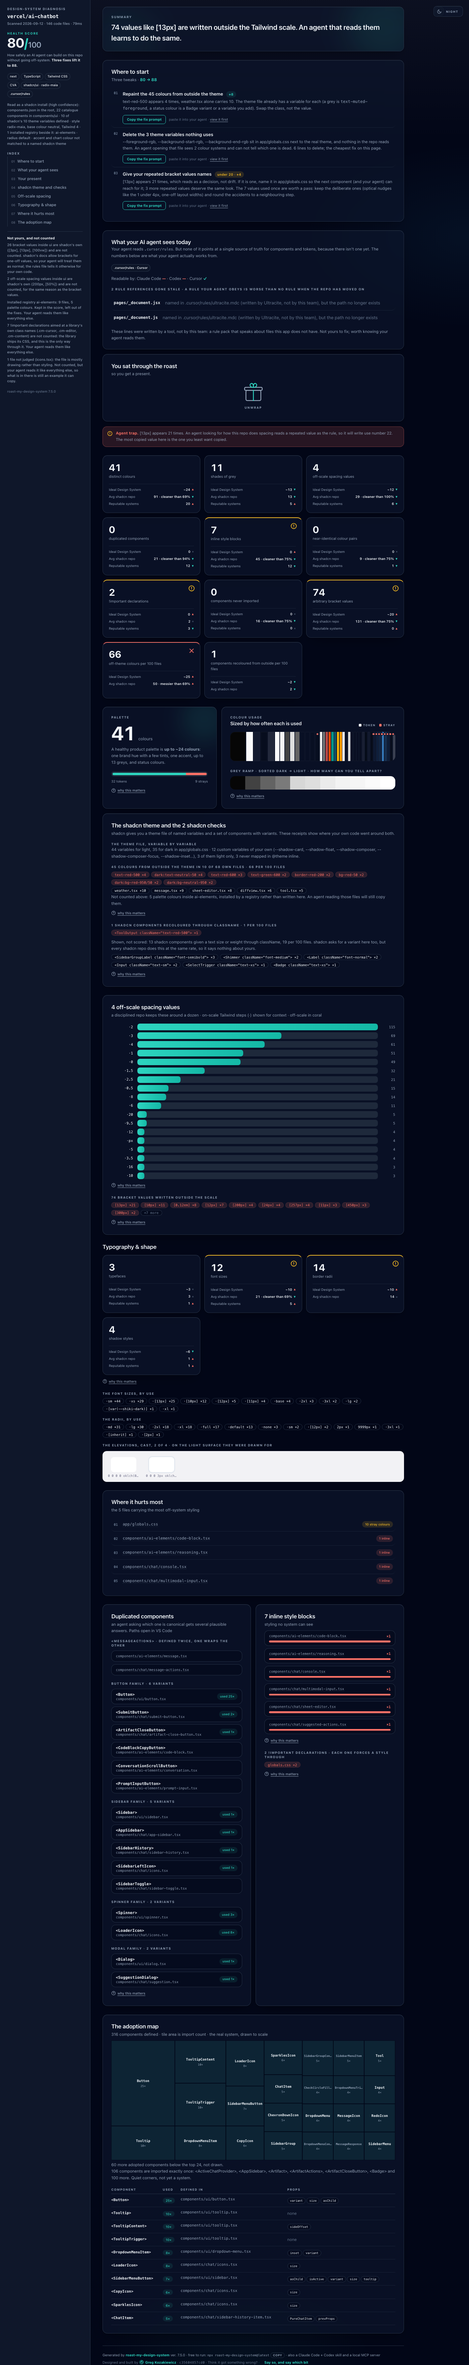
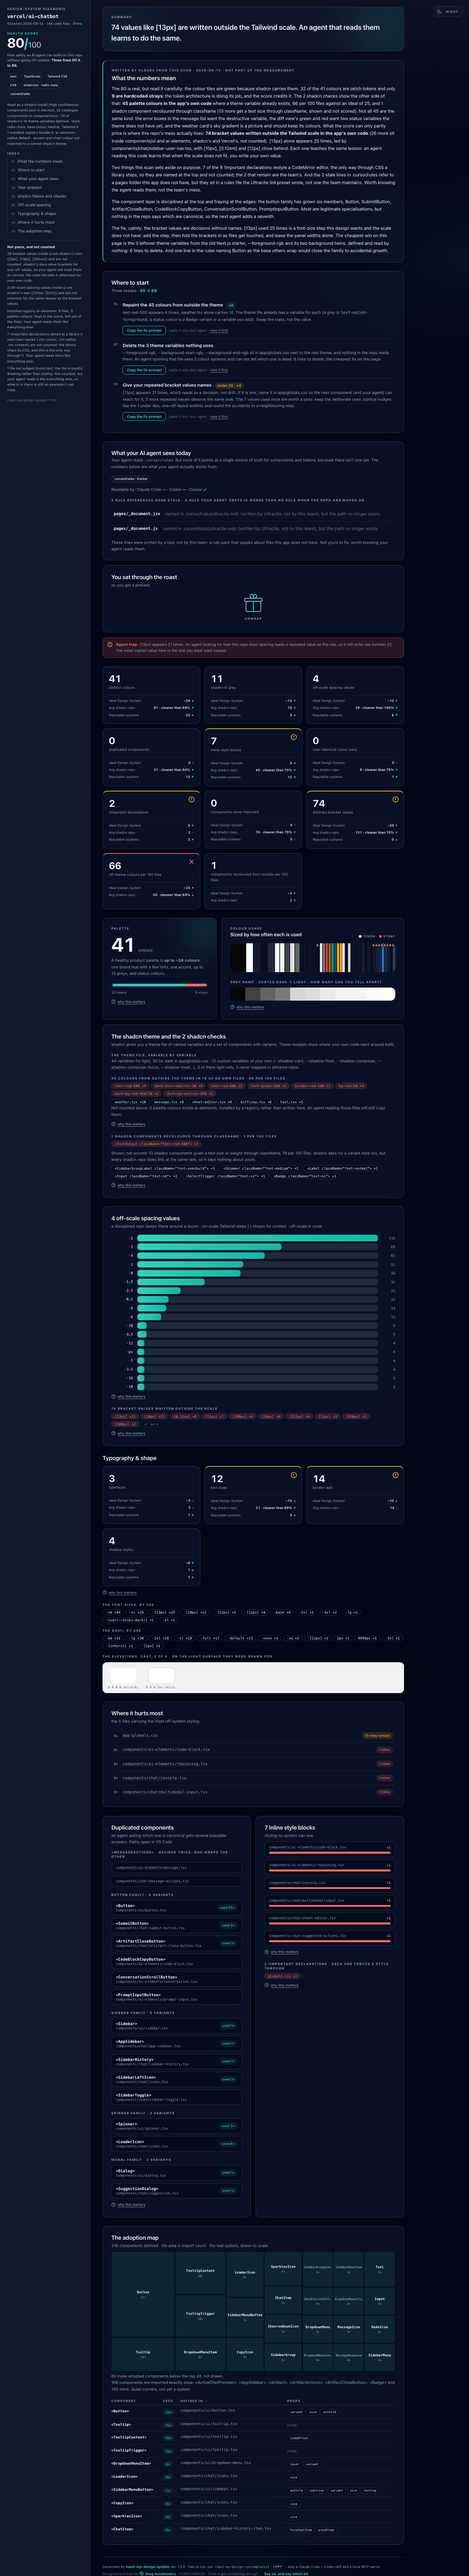
Examples: Claude's notes back on ai-chatbot and telekom; dark screenshot reshot with them
The regeneration loop passed "--notes path" as one argument (zsh does not
split unquoted variables), so both examples shipped in 7.5.0 without their
notes and the README's dark screenshot was shot from the notes-less page.

diff --git a/docs/examples/vercel-ai-chatbot.html b/docs/examples/vercel-ai-chatbot.html
@@ -445,7 +445,7 @@
[1 lines of base64/hex data omitted]
   .author:hover { text-decoration:underline; }
 </style>
-<!-- rmds-schema: gregkozakiewicz/7.4.0 -->
+<!-- rmds-schema: gregkozakiewicz/7.5.0 -->
 <!-- rmds-score: 80 -->
 </head><body>
 <button class="theme-toggle glass" aria-label="Switch between light and dark mode" onclick="(function(){var r=document.documentElement,t=r.getAttribute('data-theme')==='light'?'dark':'light';r.setAttribute('data-theme',t);try{localStorage.setItem('roast-theme',t)}catch(e){}})()">
@@ -461,12 +461,12 @@
 <aside class="side">
   <div class="eyebrow">Design-system diagnosis</div>
   <div class="repo"><span class="mono">vercel/ai-chatbot</span></div>
-  <div class="scanned">Scanned 2026-09-12 · 146 code files · 79ms</div>
+  <div class="scanned">Scanned 2026-09-13 · 146 code files · 81ms</div>
   <div class="score"><div class="eyebrow">Health score</div><div class="val">80<span class="slash">/</span><span class="of">100</span></div><div class="def">How safely an AI agent can build on this repo without going off-system. <b>Three fixes lift it to 88.</b></div></div>
   <div class="chips"><span class="chip">next</span><span class="chip">TypeScript</span><span class="chip">Tailwind CSS</span><span class="chip">CVA</span><span class="chip">shadcn/ui · radix-maia</span><span class="chip chip-agent">.cursor/rules</span></div>
   <div class="facts"><div class="excl">Read as a shadcn install (high confidence): components.json in the root, 22 catalogue components in components/ui · 10 of shadcn's 10 theme variables defined · style radix-maia, base colour neutral, Tailwind 4 · 1 installed registry beside it: ai-elements · radius default · accent and chart colour not matched to a named shadcn theme</div></div>
   <div class="eyebrow idx-head">Index</div>
-  <nav class="idx" id="idx"><a href="#s-1"><i>01</i>Where to start</a><a href="#s-2"><i>02</i>What your agent sees</a><a href="#s-3"><i>03</i>Your present</a><a href="#shadcn"><i>04</i>shadcn theme and checks</a><a href="#s-5"><i>05</i>Off-scale spacing</a><a href="#s-6"><i>06</i>Typography &amp; shape</a><a href="#s-7"><i>07</i>Where it hurts most</a><a href="#s-8"><i>08</i>The adoption map</a></nav>
+  <nav class="idx" id="idx"><a href="#s-1"><i>01</i>What the numbers mean</a><a href="#s-2"><i>02</i>Where to start</a><a href="#s-3"><i>03</i>What your agent sees</a><a href="#s-4"><i>04</i>Your present</a><a href="#shadcn"><i>05</i>shadcn theme and checks</a><a href="#s-6"><i>06</i>Off-scale spacing</a><a href="#s-7"><i>07</i>Typography &amp; shape</a><a href="#s-8"><i>08</i>Where it hurts most</a><a href="#s-9"><i>09</i>The adoption map</a></nav>
   <div class="excs"><b>Not yours, and not counted</b><p>26 bracket values inside ui are shadcn's own ([3px], [13px], [100vw]) and are not counted. shadcn's docs allow brackets for one-off values, so your agent will treat them as normal; the rules file tells it otherwise for your own code.</p><p>2 off-scale spacing values inside ui are shadcn's own (200px, [50%]) and are not counted, for the same reason as the bracket values.</p><p>Installed registry ai-elements: 9 files, 5 palette colours. Kept in the score, left out of the fixes. Your agent reads them like everything else.</p><p>7 !important declarations aimed at a library's own class names (.cm-cursor, .cm-editor, .cm-content) are not counted: the library ships its CSS, and this is the only way through it. Your agent reads them like everything else.</p><p>1 file not judged (icons.tsx): the file is mostly drawing rather than styling. Not counted, but your agent reads it like everything else, so what is in there is still an example it can copy.</p></div>
   <div class="side-foot">roast-my-design-system 7.5.0</div>
 </aside>
@@ -478,11 +478,17 @@
     <div class="verdict">74 values like [13px] are written outside the Tailwind scale. An agent that reads them learns to do the same.</div>
   </div>
 
+<section id="s-1" class="glass pad notes-sec">
+    <div class="sec-head">
+      <div class="eyebrow">Written by Claude from this scan · 2026-09-13 · not part of the measurement</div>
+      <h2>What the numbers mean</h2>
+    </div>
+    <div class="notes-body"><p>The 80 is real, but read it carefully: the colour tiles are green because shadcn carries them. 32 of the 41 colours are oklch tokens and only <strong>9 are hardcoded strays</strong>: the token architecture is doing its job, and the score credits it. The 2 shadcn checks show the other side of that: <strong>45 palette colours in the app's own code</strong> where a theme variable already exists, 66 per 100 files against an ideal of 25, and 1 shadcn component recoloured through className (13 more get a text size through className, shown and not scored). Not all 45 are the same kind: the error boxes in the message list want the destructive variable, the diff view's green and red want two status variables the theme does not have yet, and the weather card's sky gradient is a picture and should keep its colours. What the score can only partly price is where this repo's mess actually lives: <strong>74 bracket values written outside the Tailwind scale in the app's own code</strong> (26 more sit inside components/ui and ai-elements, shadcn's and Vercel's, not counted). [13px] alone appears 25 times, led by components/chat/sidebar-user-nav.tsx, with [10px], [0.12em] and [12px] close behind. Each one teaches the same lesson: an agent reading this code learns that when the scale does not fit, you write your own value.</p><p>Two things this scan sets aside on purpose. 7 of the 9 !important declarations restyle a CodeMirror editor, the only way through CSS a library ships, so they are named at the top and not counted; the 2 that remain are the team's. And the 2 stale lines in .cursor/rules refer to a pages folder this app does not have, but they sit in a rules file the Ultracite lint preset wrote, not one the team maintains. Worth knowing the agent reads them; not the team's mess.</p><p>The component layer is disciplined at the top and fraying at the edges: the button family has grown six members, Button, SubmitButton, ArtifactCloseButton, CodeBlockCopyButton, ConversationScrollButton, PromptInputButton. Most are legitimate specialisations, but nothing in the repo says which are canonical, so the next agent adds a seventh.</p><p>The fix, calmly: the bracket values are decisions without names. [13px] used 25 times is a font-size step this design wants and the scale does not have: add the step, then fold the brackets in as files get touched, and leave the panel widths alone. The cheapest win on this page is the 3 leftover theme variables from the old Next.js starter, --foreground-rgb and its two background twins, defined and read by nothing: 6 lines to delete. And one line in the rules naming Button as the base others wrap would close the family to accidental growth.</p></div>
+</section>
 
 
 
-
-<section id="s-1" class="glass pad">
+<section id="s-2" class="glass pad">
     <div class="sec-head"><h2>Where to start</h2><p class="sub">Three tweaks · <b class="proj">80 &rarr; 88</b></p></div>
     <div class="ledger">
       <div class="ledger-row start-row">
@@ -552,7 +558,7 @@ Work through the files named in the finding. When you are done, re-run the scan 
 npx roast-my-design-system@latest</div></div>
       </div></div></section>
 
-<section id="s-2" class="glass pad agent">
+<section id="s-3" class="glass pad agent">
     <div class="sec-head"><h2>What your AI agent sees today</h2></div>
     <p class="sub">Your agent reads <span class="mono">.cursor/rules</span>. But none of it points at a single source of truth for components and tokens, because there isn't one yet. The numbers below are what your agent actually works from.</p><div class="chips"><span class="chip chip-agent">.cursor/rules · Cursor</span></div><p class="sub coverage">Readable by: Claude Code <b class="cov-no">—</b> · Codex <b class="cov-no">—</b> · Cursor <b class="cov-yes">✓</b></p>
     <div class="stale">
@@ -569,7 +575,7 @@ npx roast-my-design-system@latest</div></div>
       <p class="sub" style="margin-top:10px">These lines were written by a tool, not by this team: a rule pack that speaks about files this app does not have. Not yours to fix; worth knowing your agent reads them.</p>
     </div></section>
 
-<section id="s-3" class="glass pad gift-sec">
+<section id="s-4" class="glass pad gift-sec">
     <div class="sec-head"><h2>You sat through the roast</h2><p class="sub">so you get a present.</p></div>
     <div class="gift-stage">
       <button class="gift" id="gift" aria-label="Unwrap your generated agent rules file">
@@ -587,7 +593,7 @@ npx roast-my-design-system@latest</div></div>
           <span class="gift-count">23 rules generated from this scan, every one with a receipt</span></div>
         <pre class="gift-md" id="gift-md">## Design system rules
 
-&lt;!-- Generated by roast-my-design-system from a scan of vercel/ai-chatbot on 2026-09-12.
+&lt;!-- Generated by roast-my-design-system from a scan of vercel/ai-chatbot on 2026-09-13.
      Paste into CLAUDE.md, .cursor/rules or AGENTS.md. Regenerate after big refactors:
      npx roast-my-design-system@latest --rules
      Door note: Codex and Cursor read AGENTS.md; Claude Code reads CLAUDE.md only.
@@ -753,7 +759,7 @@ Follow these rules when writing or editing UI in this repo. Every rule below was
     <div class="receipts"><div class="eyebrow">the theme file, variable by variable</div><p class="sub">44 variables for light, 35 for dark in app/globals.css · 12 custom variables of your own (--shadow-card, --shadow-float, --shadow-composer, --shadow-composer-focus, --shadow-inset…), 3 of them light only, 3 never mapped in @theme inline.</p></div><div class="receipts"><div class="eyebrow">45 colours from outside the theme in 10 of 68 own files · 66 per 100 files</div><div class="chips-row"><span class="vchip bad">text-red-500 ×4</span><span class="vchip bad">dark:text-neutral-50 ×4</span><span class="vchip bad">text-red-600 ×3</span><span class="vchip bad">text-green-600 ×2</span><span class="vchip bad">border-red-200 ×2</span><span class="vchip bad">bg-red-50 ×2</span><span class="vchip bad">dark:bg-red-950/50 ×2</span><span class="vchip bad">dark:bg-neutral-950 ×2</span></div><div class="chips-row"><span class="vchip" title="components/chat/weather.tsx">weather.tsx ×10</span><span class="vchip" title="components/chat/message.tsx">message.tsx ×9</span><span class="vchip" title="components/chat/sheet-editor.tsx">sheet-editor.tsx ×8</span><span class="vchip" title="components/chat/diffview.tsx">diffview.tsx ×6</span><span class="vchip" title="components/ai-elements/tool.tsx">tool.tsx ×5</span></div><p class="sub">Not counted above: 5 palette colours inside ai-elements, installed by a registry rather than written here. An agent reading those files will still copy them.</p></div><div class="whywrap"><button type="button" class="whybtn" data-why="paintTin"><svg class="why-ic" viewBox="0 0 24 24" aria-hidden="true"><circle cx="12" cy="12" r="9.5"/><path d="M9.3 9.1a2.8 2.8 0 1 1 4 3.1c-.9.5-1.3 1.1-1.3 2.1"/><line x1="12" y1="17.2" x2="12" y2="17.21"/></svg><span class="why-lab">why this matters</span></button><div class="whytext" hidden id="why-paintTin"><p>shadcn gives every project a theme file. It holds one CSS variable per job: background, foreground, muted text, border, ring, and about 30 more. Each has a light value and a dark value. Components use them through classes like bg-background and text-muted-foreground.</p><p>A palette class such as text-gray-500 or bg-blue-100 skips that file. It works on the day. It stops working at the first theme change: the variables move, the palette colour stays, and the page shows 2 designs at once. Dark mode is where it shows first. A variable carries both values; a palette class carries one, so someone adds dark:bg-gray-900 next to it, and now there are 2 places to keep in step. An AI agent reading that file copies the pair.</p><p>The ideal is 25 per 100 files. That is where the tidiest third of 15 shadcn repos in the benchmark sit; the median is 62. shadcn's own rules for agents say it in 1 line: use semantic colours, never bg-blue-500.</p></div></div><div class="receipts"><div class="eyebrow">1 shadcn components recoloured through className · 1 per 100 files</div><div class="chips-row"><span class="vchip bad">&lt;ToolOutput className=&quot;text-red-500&quot;&gt; ×1</span></div><p class="sub" style="margin-top:10px">Shown, not scored: 13 shadcn components given a text size or weight through className, 19 per 100 files. shadcn asks for a variant here too, but every shadcn repo does this at the same rate, so it says nothing about yours.</p><div class="chips-row"><span class="vchip">&lt;SidebarGroupLabel className=&quot;font-semibold&quot;&gt; ×3</span><span class="vchip">&lt;Shimmer className=&quot;font-medium&quot;&gt; ×2</span><span class="vchip">&lt;Label className=&quot;font-normal&quot;&gt; ×2</span><span class="vchip">&lt;Input className=&quot;text-sm&quot;&gt; ×2</span><span class="vchip">&lt;SelectTrigger className=&quot;text-xs&quot;&gt; ×1</span><span class="vchip">&lt;Badge className=&quot;text-xs&quot;&gt; ×1</span></div></div><div class="whywrap"><button type="button" class="whybtn" data-why="doorOverrides"><svg class="why-ic" viewBox="0 0 24 24" aria-hidden="true"><circle cx="12" cy="12" r="9.5"/><path d="M9.3 9.1a2.8 2.8 0 1 1 4 3.1c-.9.5-1.3 1.1-1.3 2.1"/><line x1="12" y1="17.2" x2="12" y2="17.21"/></svg><span class="why-lab">why this matters</span></button><div class="whytext" hidden id="why-doorOverrides"><p>A shadcn component ships with variants: outline, ghost, destructive, small, large. The variant decides how the component looks, once, in the component file you own. Passing bg-blue-100 through className decides it again at the call site, where the component can not see it.</p><p>Do this in 5 places and 1 button has 6 designs. The next person can not tell which one is intended, and an agent copies whichever it finds first. shadcn's guidance gives 3 routes: use a variant that exists, add a variant to the component, or add a variable to the theme file. className is for layout: width, margin, position.</p><p>The ideal is 2 per 100 files, the tidiest half of the 16 shadcn repos in the benchmark; the median is 1. Typography through className, a text-sm on an Input, is shown here and not scored: 12 of the 16 repos do it at the same rate, so it separates nothing, and nowhere else in this report does a text size cost points.</p></div></div>
   </section>
 
-<section id="s-5" class="glass pad">
+<section id="s-6" class="glass pad">
     <div class="sec-head"><h2>4 off-scale spacing values</h2><p class="sub">a disciplined repo keeps these around a dozen · on-scale Tailwind steps (·) shown for context · off-scale in coral</p></div>
     <div class="bars">
     <div class="bar-row"><span class="bar-label">·2</span>
@@ -814,7 +820,7 @@ Follow these rules when writing or editing UI in this repo. Every rule below was
     <div class="receipts"><div class="eyebrow">74 bracket values written outside the scale</div>
     <div class="chips-row"><span class="vchip bad" title="components/chat/sidebar-user-nav.tsx">[13px] ×21</span><span class="vchip bad" title="components/chat/sidebar-history.tsx">[10px] ×11</span><span class="vchip bad" title="components/chat/sidebar-history.tsx">[0.12em] ×8</span><span class="vchip bad" title="components/chat/multimodal-input.tsx">[12px] ×7</span><span class="vchip bad" title="artifacts/code/client.tsx">[200px] ×4</span><span class="vchip bad" title="components/chat/artifact-messages.tsx">[24px] ×4</span><span class="vchip bad" title="components/chat/document-preview.tsx">[257px] ×4</span><span class="vchip bad" title="components/chat/preview.tsx">[11px] ×3</span><span class="vchip bad" title="components/chat/document-preview.tsx">[450px] ×3</span><span class="vchip bad" title="components/chat/code-editor.tsx">[300px] ×2</span><span class="vchip dim">+7 more</span></div>
     <div class="whywrap"><button type="button" class="whybtn" data-why="arbitrary"><svg class="why-ic" viewBox="0 0 24 24" aria-hidden="true"><circle cx="12" cy="12" r="9.5"/><path d="M9.3 9.1a2.8 2.8 0 1 1 4 3.1c-.9.5-1.3 1.1-1.3 2.1"/><line x1="12" y1="17.2" x2="12" y2="17.21"/></svg><span class="why-lab">why this matters</span></button><div class="whytext" hidden id="why-arbitrary"><p>Brackets exist for a reason. Sometimes the scale really lacks a value, and one w-[137px] for a stubborn third-party embed is craft, done on purpose.</p><p>But a bracket is a value with no name. A search for the token will never find it, and a scale change leaves it untouched. An agent that sees brackets in the repo learns that the scale is optional. It can not tell which brackets were deliberate, so it feels free to add its own, and the escape hatch becomes the main door.</p><p>The 20 is a budget for real exceptions, and it is a generous one: 9 of the 10 reputable systems we scanned sit at 0, including systems built on Tailwind. The average product repo carries 70.</p></div></div></div></section>
-<section id="s-6">
+<section id="s-7">
     <div class="sec-head"><h2>Typography &amp; shape</h2></div>
     <div class="stats minis"><div class="stat glass st-good">
   <svg class="ic ic-good" viewBox="0 0 24 24"><polyline points="4.5 12.5 9.5 17.5 19.5 6.5"/></svg>
@@ -844,7 +850,7 @@ Follow these rules when writing or editing UI in this repo. Every rule below was
         <span class="spec-cap" title="0 0 0 3px oklch(0.55 0.12 250 / 8%)">0 0 0 3px oklch(0.5… ×1</span></div></div></div>
     
   </section>
-<section id="s-7" class="glass pad">
+<section id="s-8" class="glass pad">
     <div class="sec-head"><h2>Where it hurts most</h2><p class="sub">the 5 files carrying the most off-system styling</p></div>
     <div class="ledger">
     <div class="ledger-row">
@@ -958,7 +964,7 @@ Follow these rules when writing or editing UI in this repo. Every rule below was
     <div class="chips-row"><span class="vchip bad" title="app/globals.css">globals.css ×2</span></div>
     <div class="whywrap"><button type="button" class="whybtn" data-why="important"><svg class="why-ic" viewBox="0 0 24 24" aria-hidden="true"><circle cx="12" cy="12" r="9.5"/><path d="M9.3 9.1a2.8 2.8 0 1 1 4 3.1c-.9.5-1.3 1.1-1.3 2.1"/><line x1="12" y1="17.2" x2="12" y2="17.21"/></svg><span class="why-lab">why this matters</span></button><div class="whytext" hidden id="why-important"><p>Every !important marks a styling fight someone had to win by the end of the day. One is harmless. And no one removes it later, because nobody is sure what will break.</p><p>But each one raises the floor. The next override in that area has to shout at least as loud, so the count only climbs. An agent that loses a styling fight reaches for !important straight away, because it is the most common CSS fix it has ever seen.</p><p>The ideal is 0, because !important is CSS admitting defeat. Fix the rule that kept losing, and the next one is never needed. The average product repo carries 7.</p></div></div></div></div>
 </div>
-<section id="s-8" class="glass pad">
+<section id="s-9" class="glass pad">
     <div class="sec-head"><h2>The adoption map</h2><p class="sub">316 components defined · tile area is import count · the real system, drawn to scale</p></div>
     <svg viewBox="0 0 1040 438" class="amap" role="img" aria-label="Component adoption map: tile area is import count"><g><rect x="0.0" y="0.0" width="233.3" height="312.9" class="atile">
       <title>&lt;Button&gt; · used 25× · components/ui/button.tsx</title></rect>
@@ -1082,7 +1088,7 @@ Follow these rules when writing or editing UI in this repo. Every rule below was
 <footer>
   <div class="foot-left">
     <div>Generated by <a class="brand" href="https://github.com/gregkozakiewicz/roast-my-design-system">roast-my-design-system</a> <span class="ver">ver. 7.5.0</span> · free to run: <span class="mono" id="npx-cmd">npx roast-my-design-system@latest</span> <button type="button" class="copy-pill" id="npx-copy">copy</button> · also a Claude Code + Codex skill and a local MCP server</div>
-    <div class="foot-sub">Designed and built by <a class="author" href="https://gregkozakiewicz.com/?utm_source=roast-report"><span class="gk-mark"></span>Greg Kozakiewicz</a> · <span class="scan-id" title="scan id">c35604857cd0</span> · Think it got something wrong? <a class="feedback" href="https://github.com/gregkozakiewicz/roast-my-design-system/issues/new?template=feedback.yml&amp;version=7.5.0"><svg class="pulse" viewBox="0 0 24 24" aria-hidden="true"><polyline points="2 12.5 6.5 12.5 9.5 4 15 20.5 18 12.5 22 12.5"/></svg>Say so, and say which bit</a></div>
+    <div class="foot-sub">Designed and built by <a class="author" href="https://gregkozakiewicz.com/?utm_source=roast-report"><span class="gk-mark"></span>Greg Kozakiewicz</a> · <span class="scan-id" title="scan id">fc8855588e25</span> · Think it got something wrong? <a class="feedback" href="https://github.com/gregkozakiewicz/roast-my-design-system/issues/new?template=feedback.yml&amp;version=7.5.0"><svg class="pulse" viewBox="0 0 24 24" aria-hidden="true"><polyline points="2 12.5 6.5 12.5 9.5 4 15 20.5 18 12.5 22 12.5"/></svg>Say so, and say which bit</a></div>
   </div>
   <span class="creds"><span>Non-destructive scan</span><span>Read-only</span><span>Paths are real</span></span>
 </footer>

diff --git a/docs/examples/telekom-scale.html b/docs/examples/telekom-scale.html
@@ -445,7 +445,7 @@
[1 lines of base64/hex data omitted]
   .author:hover { text-decoration:underline; }
 </style>
-<!-- rmds-schema: gregkozakiewicz/7.4.0 -->
+<!-- rmds-schema: gregkozakiewicz/7.5.0 -->
 <!-- rmds-score: 55 -->
 </head><body>
 <button class="theme-toggle glass" aria-label="Switch between light and dark mode" onclick="(function(){var r=document.documentElement,t=r.getAttribute('data-theme')==='light'?'dark':'light';r.setAttribute('data-theme',t);try{localStorage.setItem('roast-theme',t)}catch(e){}})()">
@@ -461,12 +461,12 @@
 <aside class="side">
   <div class="eyebrow">Design-system diagnosis</div>
   <div class="repo"><span class="mono">telekom/scale</span></div>
-  <div class="scanned">Scanned 2026-09-12 · 210 code files · 122ms</div>
+  <div class="scanned">Scanned 2026-09-13 · 210 code files · 132ms</div>
   <div class="score"><div class="eyebrow">Health score</div><div class="val">55<span class="slash">/</span><span class="of">100</span></div><div class="def">How safely an AI agent can build on this repo without going off-system. <b>Three fixes lift it to 72.</b></div></div>
   <div class="chips"><span class="chip">web components (Stencil)</span><span class="chip">TypeScript</span><span class="chip">plain CSS</span><span class="chip">custom design system (--telekom-*)</span><span class="chip">monorepo</span><span class="chip chip-dim">also present: --scl-*</span></div>
   <div class="facts"></div>
   <div class="eyebrow idx-head">Index</div>
-  <nav class="idx" id="idx"><a href="#s-1"><i>01</i>Where to start</a><a href="#s-2"><i>02</i>What your agent sees</a><a href="#s-3"><i>03</i>Your present</a><a href="#s-4"><i>04</i>Package by package</a><a href="#s-5"><i>05</i>Off-scale spacing</a><a href="#s-6"><i>06</i>Typography &amp; shape</a><a href="#s-7"><i>07</i>Where it hurts most</a><a href="#s-8"><i>08</i>The composition map</a></nav>
+  <nav class="idx" id="idx"><a href="#s-1"><i>01</i>What the numbers mean</a><a href="#s-2"><i>02</i>Where to start</a><a href="#s-3"><i>03</i>What your agent sees</a><a href="#s-4"><i>04</i>Your present</a><a href="#s-5"><i>05</i>Package by package</a><a href="#s-6"><i>06</i>Off-scale spacing</a><a href="#s-7"><i>07</i>Typography &amp; shape</a><a href="#s-8"><i>08</i>Where it hurts most</a><a href="#s-9"><i>09</i>The composition map</a></nav>
   <div class="excs"><b>Not yours, and not counted</b><p>A library: unused components are internal-only, and downstream consumers are invisible from here.</p><p>1 file not judged (email-cell.tsx): email and print styling has to be inline, because there is no cascade to inherit. Not counted, but your agent reads it like everything else, so what is in there is still an example it can copy.</p><p>3 files not judged (icon.tsx, app-logo.tsx, logo-svg.tsx): the colours belong to the artwork, not to the interface. Not counted, but your agent reads them like everything else, so what is in there is still an example it can copy.</p></div>
   <div class="side-foot">roast-my-design-system 7.5.0</div>
 </aside>
@@ -478,11 +478,17 @@
     <div class="verdict">66 spacing values sit outside the scale. A tidy system needs about 12. 26 !important declarations. Each one forces a style through instead of fixing the rule that blocked it. 3 components exist in more than 1 version. An agent asked for a Button can not tell which one to use.</div>
   </div>
 
+<section id="s-1" class="glass pad notes-sec">
+    <div class="sec-head">
+      <div class="eyebrow">Written by Claude from this scan · 2026-09-13 · not part of the measurement</div>
+      <h2>What the numbers mean</h2>
+    </div>
+    <div class="notes-body"><p>Scale is architecturally sound, and this scan can now say so with the components read: 95 Stencil web components, generated React, Vue and Angular wrappers, and a real composition core where <strong>scale-dropdown-select-item</strong>, <strong>scale-combobox</strong> and <strong>scale-button</strong> do the heavy lifting. The findings below are not quality problems. They are the residue of a token migration that was started and never closed out.</p><p><strong>The headline is still the token migration.</strong> Most token references answer to the current --telekom-* namespace, while a minority still call --scl-*, whose definitions sit in the in-repo @telekom/scale-design-tokens package that is itself marked deprecated in favour of the separate @telekom/design-tokens. The source of truth moved; some of the calls have not followed it yet. The 66 off-scale spacing values and the 2 near-identical colour pairs are the same unfinished move wearing different clothes.</p><p><strong>Where the specificity fights are.</strong> The 26 !important declarations cluster instead of spreading: data-grid alone carries 8. The composite components are where the cascade is being argued with, and those are also the components consumers can least work around.</p><p><strong>Three names are defined twice.</strong> TelekomNavItem, Logo and Shell each have two implementations. In a system whose whole promise is one canonical answer per question, an agent asked for the nav item has a coin to flip. Small list, cheap fix, outsized signal.</p><p><strong>Two colour findings worth separating.</strong> #cb0068, the pressed state of Telekom magenta, appears hardcoded rather than derived from the brand token, and it is the one colour the licence specifically ring-fences: the clearest commercial argument for a real token boundary. Separately, the near-identical dark pair #1b1b1b next to #191919 is copy-paste, not a decision.</p><p><strong>What is genuinely working.</strong> 302 colours sounds alarming and is not: 297 of them are tokens, the greys ride on the same tokens, and there are zero arbitrary bracket values and zero unimported components in the design-system scope. The web component core with generated framework wrappers remains the right call for an organisation with this many product estates.</p><p><strong>One gap that grows monthly.</strong> No CLAUDE.md, no AGENTS.md. For a design system whose entire job is telling people which component is canonical, every agent-written UI change is currently a guess. The rules file this scan can generate would name the canonical components, the --telekom-* namespace and the duplicates to avoid, in one page.</p></div>
+</section>
 
 
 
-
-<section id="s-1" class="glass pad">
+<section id="s-2" class="glass pad">
     <div class="sec-head"><h2>Where to start</h2><p class="sub">Three tweaks · <b class="proj">55 &rarr; 72</b></p></div>
     <div class="ledger">
       <div class="ledger-row start-row">
@@ -550,11 +556,11 @@ Work through the files named in the finding. When you are done, re-run the scan 
 npx roast-my-design-system@latest</div></div>
       </div></div></section>
 
-<section id="s-2" class="glass pad agent">
+<section id="s-3" class="glass pad agent">
     <div class="sec-head"><h2>What your AI agent sees today</h2></div>
     <p class="sub">No <span class="mono">CLAUDE.md</span>, no <span class="mono">AGENTS.md</span>, no <span class="mono">.cursorrules</span>. Every time your AI builds UI here, it guesses, from everything below. This is why its output looks almost-but-not-quite right.</p></section>
 
-<section id="s-3" class="glass pad gift-sec">
+<section id="s-4" class="glass pad gift-sec">
     <div class="sec-head"><h2>You sat through the roast</h2><p class="sub">so you get a present.</p></div>
     <div class="gift-stage">
       <button class="gift" id="gift" aria-label="Unwrap your generated agent rules file">
@@ -572,7 +578,7 @@ npx roast-my-design-system@latest</div></div>
           <span class="gift-count">14 rules generated from this scan, every one with a receipt</span></div>
         <pre class="gift-md" id="gift-md">## Design system rules
 
-&lt;!-- Generated by roast-my-design-system from a scan of telekom/scale on 2026-09-12.
+&lt;!-- Generated by roast-my-design-system from a scan of telekom/scale on 2026-09-13.
      Paste into CLAUDE.md, .cursor/rules or AGENTS.md. Regenerate after big refactors:
      npx roast-my-design-system@latest --rules
      Door note: Codex and Cursor read AGENTS.md; Claude Code reads CLAUDE.md only.
@@ -675,7 +681,7 @@ Follow these rules when writing or editing UI in this repo. Every rule below was
   <div class="rows"><div class="row"><span class="rlab">Ideal Design System</span><span class="rval">~20 <span class="dir d-down">▼</span></span></div><div class="row"><span class="rlab">Avg Design System</span><span class="rval">82 · cleaner than 71% <span class="dir d-down">▼</span></span></div><div class="row"><span class="rlab">Reputable systems</span><span class="rval">0 <span class="dir d-eq">=</span></span></div></div>
 </div></div>
 
-<section id="s-4" class="glass pad">
+<section id="s-5" class="glass pad">
     <div class="sec-head"><h2>Package by package</h2><p class="sub">1 package with enough UI to judge · the repo score above is the whole thing blended, and 6 packages were too small or too backend to score</p></div>
     <div class="tbl-wrap"><table><thead><tr><th>package</th><th>score</th><th>worst finding</th><th>size</th></tr></thead><tbody>
     <tr><td class="mono strong">packages/components</td>
@@ -719,7 +725,7 @@ Follow these rules when writing or editing UI in this repo. Every rule below was
 </section></section>
 
 
-<section id="s-5" class="glass pad">
+<section id="s-6" class="glass pad">
     <div class="sec-head"><h2>66 off-scale spacing values</h2><p class="sub">a disciplined repo keeps these around a dozen · on-scale Tailwind steps (·) shown for context · off-scale in coral</p></div>
     <div class="bars">
     <div class="bar-row"><span class="bar-label">-1px</span>
@@ -777,7 +783,7 @@ Follow these rules when writing or editing UI in this repo. Every rule below was
     <div class="bar-track"><div class="bar" style="width:27%"></div></div>
     <span class="bar-count">6</span></div></div>
     <div class="whywrap"><button type="button" class="whybtn" data-why="spacing"><svg class="why-ic" viewBox="0 0 24 24" aria-hidden="true"><circle cx="12" cy="12" r="9.5"/><path d="M9.3 9.1a2.8 2.8 0 1 1 4 3.1c-.9.5-1.3 1.1-1.3 2.1"/><line x1="12" y1="17.2" x2="12" y2="17.21"/></svg><span class="why-lab">why this matters</span></button><div class="whytext" hidden id="why-spacing"><p>Nobody starts a design system with 50 spacing values. A deadline, a last-minute change, and someone nudged a layout until it sat right, and 13px honestly sat better than 12px. The next person can not tell a deliberate exception from a new value, or honestly never noticed, and copies it either way.</p><p>That is how layout rhythm starts drifting. Two lists almost align, two cards almost match, and the page stops looking right. An agent copies nudge after nudge, because to an agent 13px looks as intentional as 12px. And once one page carries enough exceptions, the agent treats them as canonical, and the poison spreads to the other pages.</p><p>The 12 is a budget for values outside the scale, and it is a generous one: the 10 reputable design systems we scanned hold a median of 6. The average product repo carries 34, which is a second, unwritten scale.</p></div></div></section>
-<section id="s-6">
+<section id="s-7">
     <div class="sec-head"><h2>Typography &amp; shape</h2></div>
     <div class="stats minis"><div class="stat glass st-good">
   <svg class="ic ic-good" viewBox="0 0 24 24"><polyline points="4.5 12.5 9.5 17.5 19.5 6.5"/></svg>
@@ -817,7 +823,7 @@ Follow these rules when writing or editing UI in this repo. Every rule below was
     
     <div class="glass pad" style="margin-top:16px"><div class="sec-head"><h2>1 typeface, declared 2 different ways</h2><p class="sub">every distinct declaration is a chance for the next one to be wrong</p></div><div class="fam-rows"><div class="mini-card"><span class="mc-path">'TeleNeoWeb'</span><span class="pill pill-coral">×24</span></div><div class="mini-card"><span class="mc-path">'TeleNeoWeb', sans-serif</span><span class="pill pill-mint">×2</span></div></div></div>
   </section>
-<section id="s-7" class="glass pad">
+<section id="s-8" class="glass pad">
     <div class="sec-head"><h2>Where it hurts most</h2><p class="sub">the 5 files carrying the most off-system styling</p></div>
     <div class="ledger">
     <div class="ledger-row">
@@ -955,7 +961,7 @@ Follow these rules when writing or editing UI in this repo. Every rule below was
     <div class="chips-row"><span class="vchip bad" title="packages/components/src/components/data-grid/data-grid.css">data-grid.css ×8</span><span class="vchip bad" title="packages/components/src/components/tag/tag.css">tag.css ×4</span><span class="vchip bad" title="packages/components/src/components/switch/switch.css">switch.css ×3</span><span class="vchip bad" title="packages/components/src/components/tab-header/tab-header.css">tab-header.css ×3</span><span class="vchip bad" title="packages/components/src/components/segment/segment.css">segment.css ×2</span><span class="vchip bad" title="packages/components/src/components/table/table.css">table.css ×2</span></div>
     <div class="whywrap"><button type="button" class="whybtn" data-why="important"><svg class="why-ic" viewBox="0 0 24 24" aria-hidden="true"><circle cx="12" cy="12" r="9.5"/><path d="M9.3 9.1a2.8 2.8 0 1 1 4 3.1c-.9.5-1.3 1.1-1.3 2.1"/><line x1="12" y1="17.2" x2="12" y2="17.21"/></svg><span class="why-lab">why this matters</span></button><div class="whytext" hidden id="why-important"><p>Every !important marks a styling fight someone had to win by the end of the day. One is harmless. And no one removes it later, because nobody is sure what will break.</p><p>But each one raises the floor. The next override in that area has to shout at least as loud, so the count only climbs. An agent that loses a styling fight reaches for !important straight away, because it is the most common CSS fix it has ever seen.</p><p>The ideal is 0, because !important is CSS admitting defeat. Fix the rule that kept losing, and the next one is never needed. The average product repo carries 7.</p></div></div></div></div>
 </div>
-<section id="s-8" class="glass pad">
+<section id="s-9" class="glass pad">
     <div class="sec-head"><h2>The composition map</h2><p class="sub">95 components defined · tile area is internal use: how the system builds from itself, downstream consumers invisible from here · the real system, drawn to scale</p></div>
     <svg viewBox="0 0 1040 438" class="amap" role="img" aria-label="Component adoption map: tile area is import count"><g><rect x="0.0" y="0.0" width="217.7" height="255.5" class="atile">
       <title>&lt;DropdownSelectItem&gt; · used 21× · packages/components/src/components/dropdown-select-item/dropdown-select-item.tsx</title></rect>
@@ -1079,7 +1085,7 @@ Follow these rules when writing or editing UI in this repo. Every rule below was
 <footer>
   <div class="foot-left">
     <div>Generated by <a class="brand" href="https://github.com/gregkozakiewicz/roast-my-design-system">roast-my-design-system</a> <span class="ver">ver. 7.5.0</span> · free to run: <span class="mono" id="npx-cmd">npx roast-my-design-system@latest</span> <button type="button" class="copy-pill" id="npx-copy">copy</button> · also a Claude Code + Codex skill and a local MCP server</div>
-    <div class="foot-sub">Designed and built by <a class="author" href="https://gregkozakiewicz.com/?utm_source=roast-report"><span class="gk-mark"></span>Greg Kozakiewicz</a> · <span class="scan-id" title="scan id">2eee9613d4c4</span> · Think it got something wrong? <a class="feedback" href="https://github.com/gregkozakiewicz/roast-my-design-system/issues/new?template=feedback.yml&amp;version=7.5.0"><svg class="pulse" viewBox="0 0 24 24" aria-hidden="true"><polyline points="2 12.5 6.5 12.5 9.5 4 15 20.5 18 12.5 22 12.5"/></svg>Say so, and say which bit</a></div>
+    <div class="foot-sub">Designed and built by <a class="author" href="https://gregkozakiewicz.com/?utm_source=roast-report"><span class="gk-mark"></span>Greg Kozakiewicz</a> · <span class="scan-id" title="scan id">08253700b2ed</span> · Think it got something wrong? <a class="feedback" href="https://github.com/gregkozakiewicz/roast-my-design-system/issues/new?template=feedback.yml&amp;version=7.5.0"><svg class="pulse" viewBox="0 0 24 24" aria-hidden="true"><polyline points="2 12.5 6.5 12.5 9.5 4 15 20.5 18 12.5 22 12.5"/></svg>Say so, and say which bit</a></div>
   </div>
   <span class="creds"><span>Non-destructive scan</span><span>Read-only</span><span>Paths are real</span></span>
 </footer>
